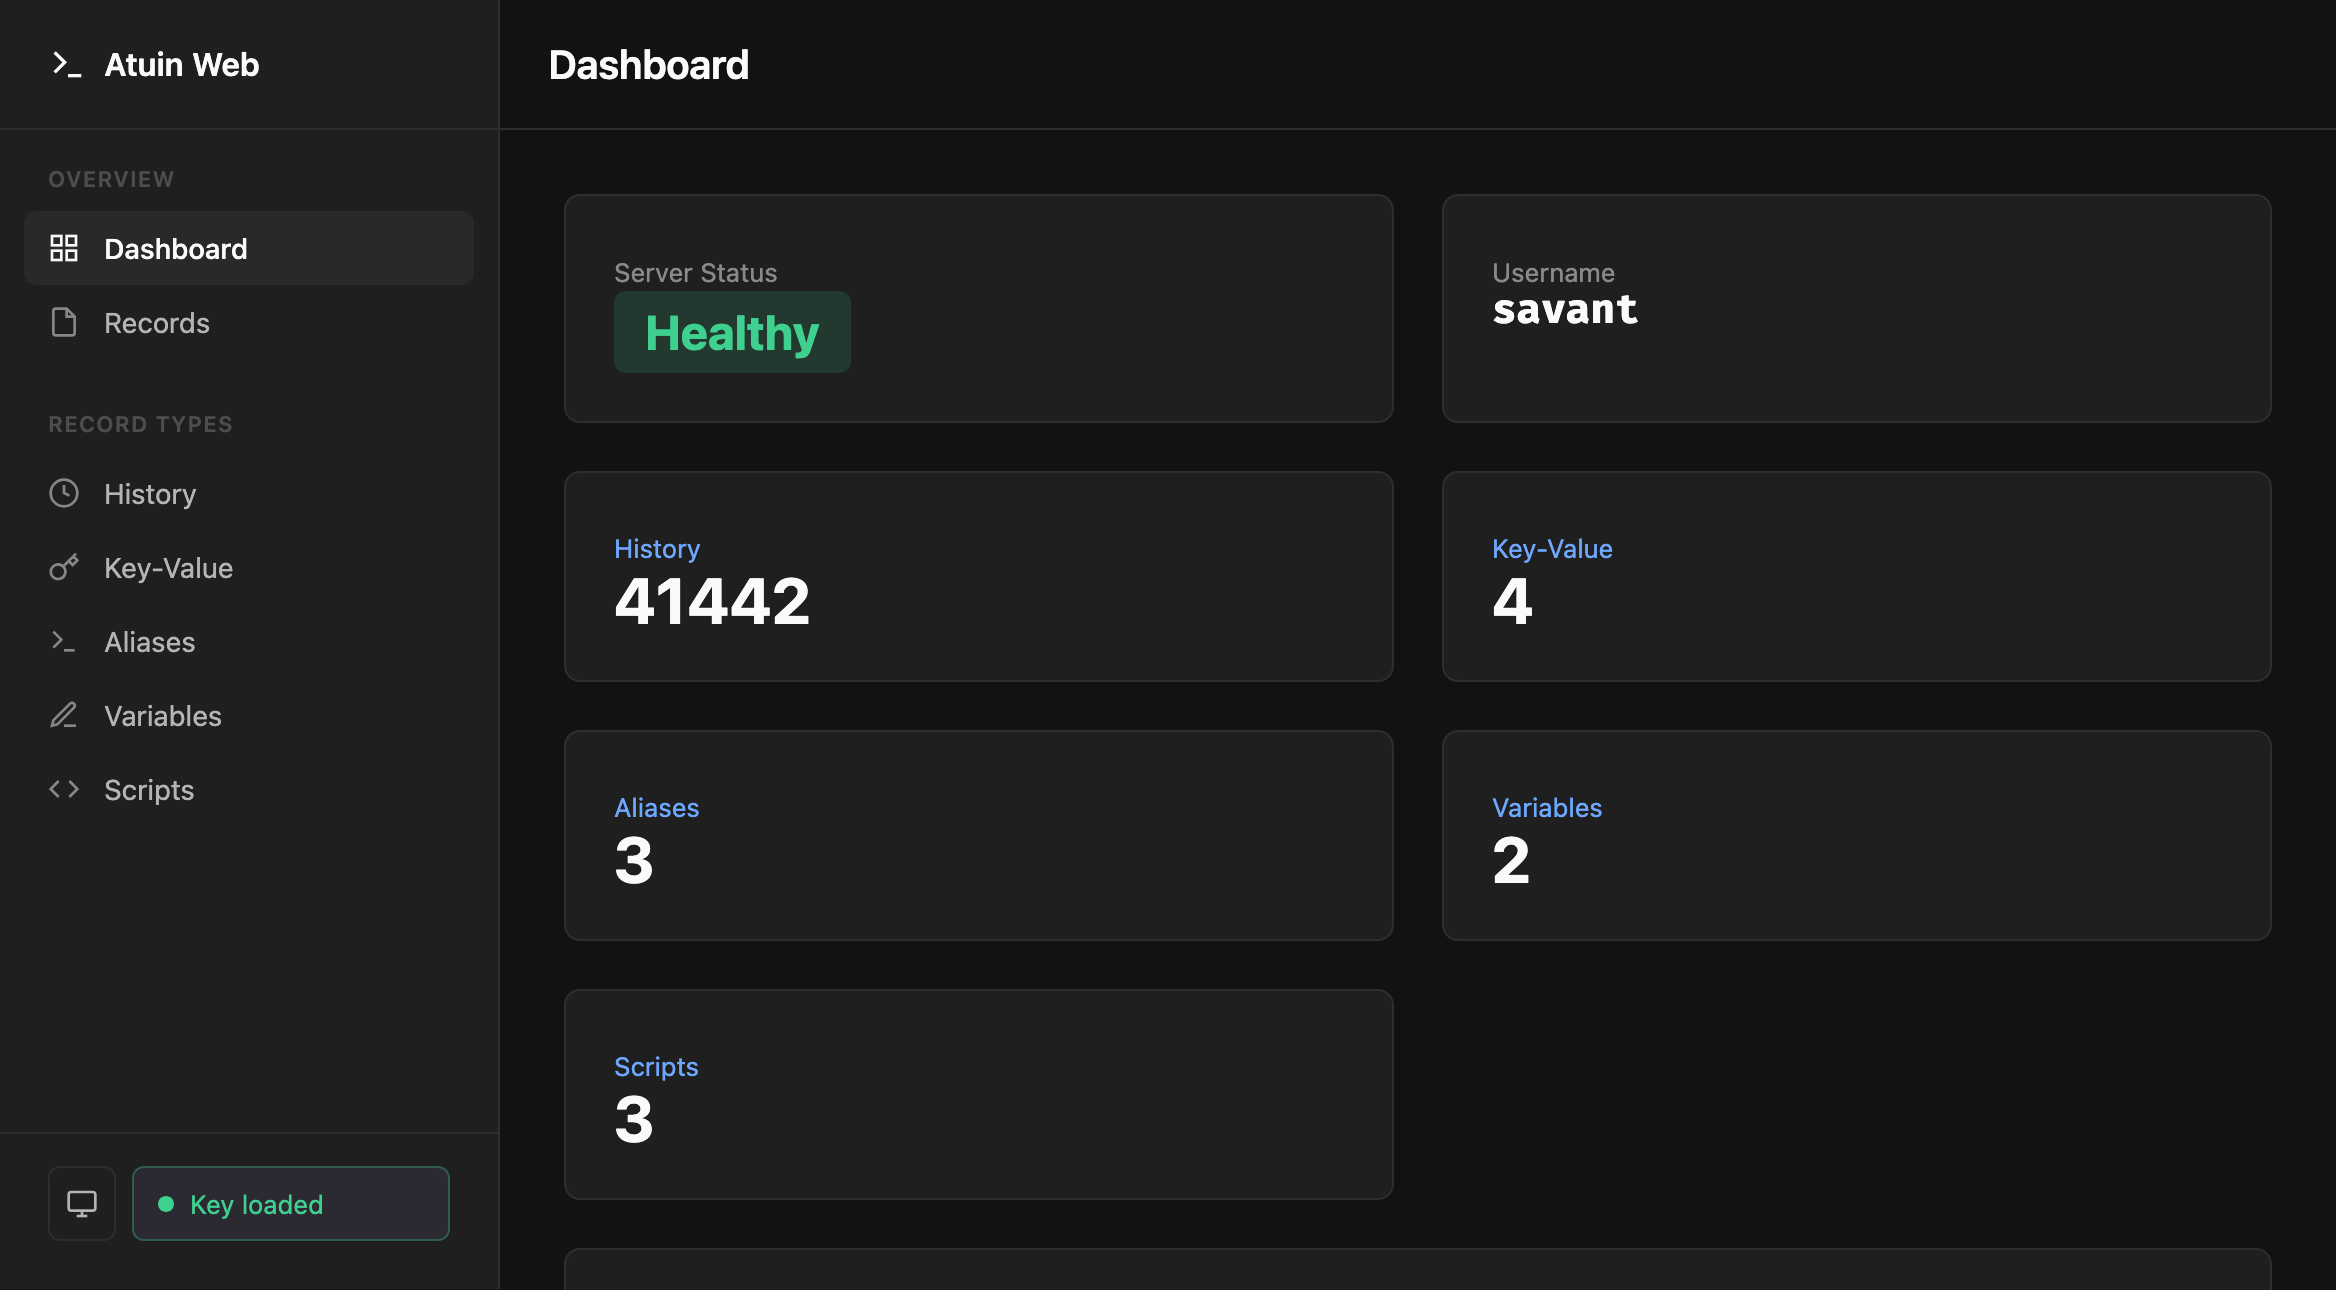
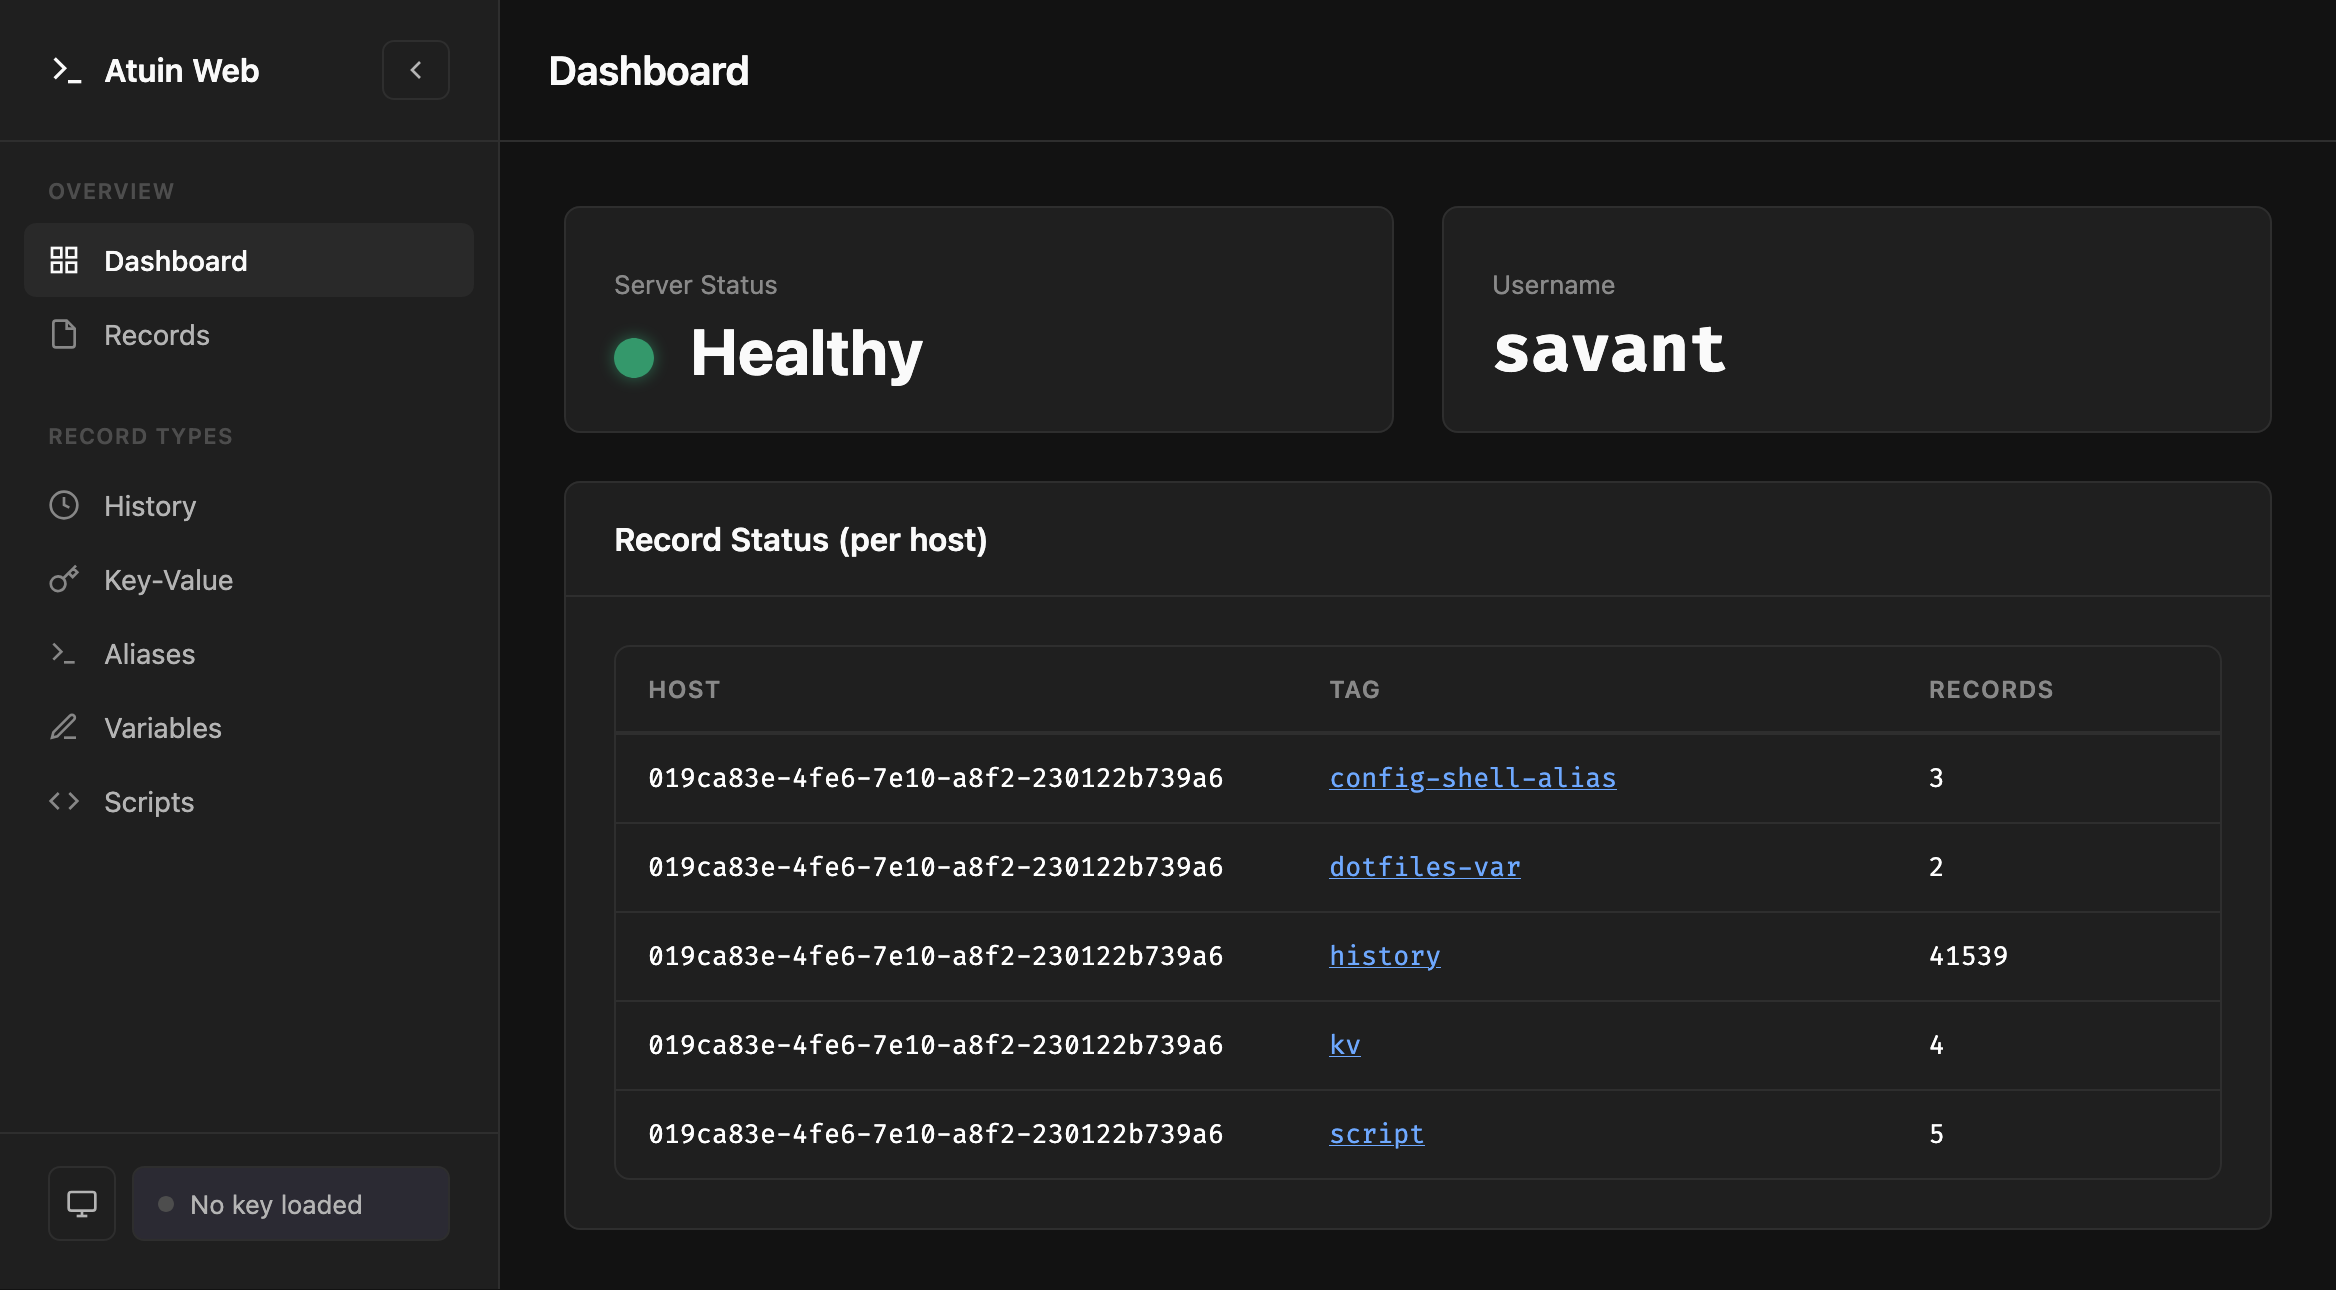
feat: replace server status badge with glowing orb and fix dashboard card spacing
- Replace the status badge with an animated glowing orb (green for
  healthy, red for unreachable) for a cleaner visual indicator
- Add label-to-value spacing in stat cards via margin-bottom on
  stat-label
- Bottom-align stat values across cards using flexbox
- Remove inline font-size override on username to match card consistency
- Update dashboard screenshot

diff --git a/assets/css/app.css b/assets/css/app.css
@@ -297,7 +297,42 @@
   color: #ef4444;
 }
 
+/* ===== Status Orb ===== */
+.status-orb {
+  display: inline-block;
+  width: 1.25rem;
+  height: 1.25rem;
+  border-radius: 50%;
+  margin-right: 0.75rem;
+  vertical-align: middle;
+  animation: pulse-glow 2s ease-in-out infinite;
+}
+
+.status-orb-healthy {
+  background: #3ecf8e;
+  box-shadow: 0 0 8px rgba(62, 207, 142, 0.6);
+}
+
+.status-orb-error {
+  background: #ef4444;
+  box-shadow: 0 0 8px rgba(239, 68, 68, 0.6);
+}
+
+@keyframes pulse-glow {
+  0%, 100% { opacity: 1; }
+  50% { opacity: 0.6; }
+}
+
 /* ===== Stat Cards ===== */
+.card-grid .card-body {
+  display: flex;
+  flex-direction: column;
+}
+
+.card-grid .stat-value {
+  margin-top: auto;
+}
+
 .stat-value {
   font-size: 2rem;
   font-weight: 700;
@@ -309,6 +344,7 @@
   font-size: 0.8125rem;
   color: var(--bs-tertiary-color);
   margin-top: 0.25rem;
+  margin-bottom: 0.5rem;
 }
 
 /* ===== Forms ===== */

diff --git a/templates/partials/dashboard_content.html b/templates/partials/dashboard_content.html
@@ -4,9 +4,9 @@
       <div class="stat-label">Server Status</div>
       <div class="stat-value">
         {% if health == "Ok" %}
-          <span class="badge badge-status-healthy">Healthy</span>
+          <span class="status-orb status-orb-healthy"></span> Healthy
         {% else %}
-          <span class="badge badge-status-error">Unreachable</span>
+          <span class="status-orb status-orb-error"></span> Unreachable
         {% endif %}
       </div>
     </div>
@@ -15,7 +15,7 @@
   <div class="card">
     <div class="card-body">
       <div class="stat-label">Username</div>
-      <div class="stat-value font-mono" style="font-size: 1.25rem;">{{ me.username | default("—") }}</div>
+      <div class="stat-value font-mono">{{ me.username | default("—") }}</div>
     </div>
   </div>
 
